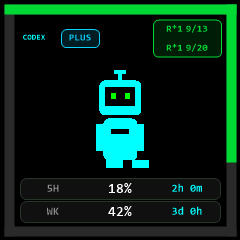
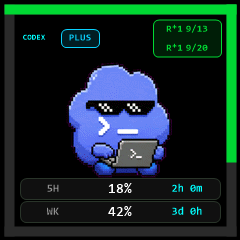
docs: show selected pets and group quota screenshots

Changed region(s): [[0.2625, 0.2625, 0.7292, 0.7583]]

diff --git a/tools/doc-capture/DocCapture.cs b/tools/doc-capture/DocCapture.cs
@@ -7,7 +7,7 @@ internal static class DocCapture
     [STAThread]
     private static void Main(string[] args)
     {
-        if (args.Length != 1) throw new ArgumentException("Supply an output directory.");
+        if (args.Length is not (1 or 3)) throw new ArgumentException("Supply an output directory, optionally followed by Claude and Codex APET paths for approved quota screenshots.");
         AppPaths.BeginPublicSelfTest(); // Must precede any settings/cache/credential access.
         Application.SetHighDpiMode(HighDpiMode.DpiUnaware);
         Application.EnableVisualStyles();
@@ -15,6 +15,11 @@ internal static class DocCapture
         var output = Path.GetFullPath(args[0]); Directory.CreateDirectory(output);
         if (PetAnimationStore.Shared.AllResources().Count != 0)
             throw new InvalidOperationException("Documentation profile contains imported art.");
+        if (args.Length == 3)
+        {
+            PetAnimationStore.Shared.Select("claude", PetAnimation.Decode(File.ReadAllBytes(args[1])));
+            PetAnimationStore.Shared.Select("codex", PetAnimation.Decode(File.ReadAllBytes(args[2])));
+        }
         var now = new DateTimeOffset(2026, 9, 10, 10, 24, 0, TimeSpan.FromHours(8));
         var quota = new ProviderQuotaSnapshot("claude", "MAX", 34, now.AddHours(2), 61,
             now.AddDays(3), null, [], now, false);
@@ -35,6 +40,16 @@ internal static class DocCapture
                 domestic with { Provider="zhipu", Plan="GLM", PrimaryPercent=null, WeeklyPercent=null, Balance=16.8, Currency="CNY" }),
             SystemMetrics: new(31.4,72.8,238900,4821100,now,Enumerable.Range(0,224).Select(i=>new NetworkSample((long)(180000+140000*Math.Sin(i/12.0)),(long)(3000000+2400000*Math.Sin(i/23.0)))).ToArray()),
             Music: new("桌面之光 · 示例曲目", "AI-bot 演示", "示例专辑", true, 95, 260, now));
+        if (args.Length == 3)
+        {
+            foreach (var mode in new[] { "claude", "codex" })
+            {
+                using var image = MirrorForm.RenderSnapshot(status, mode);
+                image.Save(Path.Combine(output, mode+".png"), ImageFormat.Png);
+            }
+            Console.WriteLine("DOC_QUOTA_CAPTURE_OK selected pets; synthetic values; isolated profile; no device access");
+            return;
+        }
         foreach (var mode in DisplayModes.Pages.Select(x=>x.Mode).Concat(new[]{"domestic","screensaver","activity"}).Distinct())
         {
             using var image = MirrorForm.RenderSnapshot(status, mode);

diff --git a/README.en.md b/README.en.md
@@ -91,22 +91,22 @@ repository. See [data sources and privacy](docs/DATA_SOURCES.md) and [asset impo
 
 **First time here?** [Windows installation (Chinese)](docs/WINDOWS_INSTALLER.md) · [Mac test build](docs/MAC_PACKAGE.md) · [Windows flashing (Chinese)](docs/FLASH.zh.md) · [Mac flashing (Chinese)](docs/FLASH_MAC.zh.md) · [Full feature and interface guide (Chinese)](docs/FEATURES.zh.md)
 
-BYTE SPROUT works out of the box; pet imports are optional. These are actual Windows mirror renders with fictional data. Quota screenshots use the built-in default pet, not the user’s current local selection; they are not photographs of a device.
+BYTE SPROUT works out of the box; pet imports are optional. These are actual Windows mirror renders with fictional data. Codex and Claude screenshots show the maintainer’s currently selected pets with sample values; they are not photographs of a device.
 
 <table>
 <tr>
-<td align="center"><img src="docs/assets/screens/codex.png" width="240" alt="Codex quota sample with the built-in default pet"><br><strong>Codex quota</strong></td>
+<td align="center"><img src="docs/assets/screens/codex.png" width="240" alt="Codex quota sample with the currently selected pet"><br><strong>Codex quota</strong></td>
+<td align="center"><img src="docs/assets/screens/claude.png" width="240" alt="Claude quota sample with the currently selected pet"><br><strong>Claude quota</strong></td>
+<td align="center"><img src="docs/assets/screens/dual.png" width="240" alt="Dual quota sample"><br><strong>Dual quotas</strong></td>
+</tr>
+<tr>
+<td align="center"><img src="docs/assets/screens/domestic_kimi.png" width="240" alt="Kimi domestic model quota sample"><br><strong>Domestic model quota (Kimi)</strong></td>
 <td align="center"><img src="docs/assets/screens/weather.png" width="240" alt="Weather sample"><br><strong>Weather &amp; clock</strong></td>
 <td align="center"><img src="docs/assets/screens/system.png" width="240" alt="System monitor sample"><br><strong>System monitor</strong></td>
 </tr>
 <tr>
-<td align="center"><img src="docs/assets/screens/dual.png" width="240" alt="Dual quota sample"><br><strong>Dual quotas</strong></td>
 <td align="center"><img src="docs/assets/screens/music.png" width="240" alt="Music sample"><br><strong>Music playback</strong></td>
 <td align="center"><img src="docs/assets/screens/stocks.png" width="240" alt="Stock quote sample"><br><strong>Stocks</strong></td>
-</tr>
-<tr>
-<td align="center"><img src="docs/assets/screens/claude.png" width="240" alt="Claude quota sample"><br><strong>Claude quota</strong></td>
-<td align="center"><img src="docs/assets/screens/domestic_kimi.png" width="240" alt="Kimi domestic model quota sample"><br><strong>Domestic model quota (Kimi)</strong></td>
 <td align="center"><img src="docs/assets/screens/screensaver.png" width="240" alt="Screensaver clock sample"><br><strong>Screensaver clock</strong></td>
 </tr>
 </table>

diff --git a/README.md b/README.md
@@ -88,22 +88,22 @@ flowchart LR
 
 **第一次使用？** [下载哪个包](docs/DOWNLOAD.zh.md) · [Windows 安装图解](docs/WINDOWS_INSTALLER.md) · [Mac 测试版安装](docs/MAC_PACKAGE.md) · [Windows 刷机图解](docs/FLASH.zh.md) · [Mac 刷机指南](docs/FLASH_MAC.zh.md) · [全部功能与界面图鉴](docs/FEATURES.zh.md)
 
-默认自带 BYTE SPROUT，无需导入桌宠。下面是实际 Windows 镜像渲染，数据为虚构样例；额度图使用内置默认萌宠，不读取用户当前选择的本地萌宠，也不是实体屏照片。
+默认自带 BYTE SPROUT，无需导入桌宠。下面是实际 Windows 镜像渲染，数据为虚构样例；Codex 与 Claude 图使用维护者当前选用的萌宠，其余数值仍为示例；不是实体屏照片。
 
 <table>
 <tr>
-<td align="center"><img src="docs/assets/screens/codex.png" width="240" alt="Codex 额度示例，使用内置默认萌宠"><br><strong>Codex 额度</strong></td>
+<td align="center"><img src="docs/assets/screens/codex.png" width="240" alt="Codex 额度示例，使用当前选用的萌宠"><br><strong>Codex 额度</strong></td>
+<td align="center"><img src="docs/assets/screens/claude.png" width="240" alt="Claude 额度示例，使用当前选用的萌宠"><br><strong>Claude 额度</strong></td>
+<td align="center"><img src="docs/assets/screens/dual.png" width="240" alt="双额度示例"><br><strong>双额度总览</strong></td>
+</tr>
+<tr>
+<td align="center"><img src="docs/assets/screens/domestic_kimi.png" width="240" alt="国产模型 Kimi 额度示例"><br><strong>国产模型额度（Kimi）</strong></td>
 <td align="center"><img src="docs/assets/screens/weather.png" width="240" alt="天气时钟示例"><br><strong>天气时钟</strong></td>
 <td align="center"><img src="docs/assets/screens/system.png" width="240" alt="系统监控示例"><br><strong>系统监控</strong></td>
 </tr>
 <tr>
-<td align="center"><img src="docs/assets/screens/dual.png" width="240" alt="双额度示例"><br><strong>双额度总览</strong></td>
 <td align="center"><img src="docs/assets/screens/music.png" width="240" alt="音乐播放示例"><br><strong>音乐播放</strong></td>
 <td align="center"><img src="docs/assets/screens/stocks.png" width="240" alt="股票行情示例"><br><strong>股票行情</strong></td>
-</tr>
-<tr>
-<td align="center"><img src="docs/assets/screens/claude.png" width="240" alt="Claude 额度示例"><br><strong>Claude 额度</strong></td>
-<td align="center"><img src="docs/assets/screens/domestic_kimi.png" width="240" alt="国产模型 Kimi 额度示例"><br><strong>国产模型额度（Kimi）</strong></td>
 <td align="center"><img src="docs/assets/screens/screensaver.png" width="240" alt="屏保时钟示例"><br><strong>屏保时钟</strong></td>
 </tr>
 </table>

diff --git a/docs/SCREENSHOTS.md b/docs/SCREENSHOTS.md
@@ -10,7 +10,7 @@
 
 图中日期、城市、歌曲、股票报价、额度和系统指标均为程序内固定的虚构样例。
 配置/图库/趋势窗口使用独立空配置；授权窗口禁用浏览器初始化，右侧未加载任何厂商网页。
-不包含厂商 logo、第三方桌宠、真实用户名、Cookie、API Key、对话或维护者运行目录内容。
+默认捕获不包含厂商 logo、第三方桌宠、真实用户名、Cookie、API Key、对话或维护者运行目录内容。2026-09-16 按维护者明确要求替换的 Codex/Claude 两张图例外：仅在隔离配置中读取其当前选用的萌宠，数值仍为虚构样例；原始动画缓存不进入仓库或发布包。
 界面中出现的字体由 Windows 绘制，仓库不分发字体文件。
 
 ## 如何复现
@@ -53,3 +53,11 @@ Public PNGs require an individually reviewed filename and matching SHA-256.
 安装、刷写、下载选择、串口识别和成功提示五张 SVG 为本项目独立绘制的操作示意，已检查文字排版；不是安装器截图或刷机实测记录。相应 SHA-256 已更新到 `licenses/materials.json`。既有真实离线 PNG 未改动。
 
 v0.1.3 新增 `setup.svg` 联网安装步骤示意，并明确 `install.svg` 仅用于 ZIP 手动安装。示意图不代表安装器实测截图。
+
+## 当前萌宠额度图 / Selected-pet quota captures
+
+2026-09-16，`codex.png` 与 `claude.png` 按维护者要求使用其当前选择的萌宠重新渲染。驻留程序只读诊断确认两个角色均已加载；捕获工具读取 Codex 的角色选择及 Claude 的本地默认动画，不修改驻留程序配置。两张图只用于展示应用界面，不将角色图案声明为本项目原创或 MIT 授权，不分发 APET 或源素材。
+
+可选捕获入口：`dotnet run --project tools/doc-capture/DocCapture.csproj -c Release -- <output> <claude.apet> <codex.apet>`。此模式只生成两张额度图；调用者须明确选择获准展示的素材路径。默认无素材参数的捕获仍使用内置桌宠。
+
+On 2026-09-16, the maintainer requested Codex/Claude quota screenshots with their currently selected pets. This explicit opt-in mode reads only the two supplied APET files into an isolated profile and renders synthetic quota values. The original animations are not distributed; depicted characters are not claimed as original AI-bot artwork or MIT-licensed assets. Default capture still uses built-in pets.

diff --git a/docs/ASSET_POLICY.md b/docs/ASSET_POLICY.md
@@ -8,7 +8,7 @@ support in its private pet cache. Resources 12/13 feed the mirror and device;
 no logo pixels or source headers are included in the repository/release. This
 import does not confer a redistribution license. macOS remains unbuilt/unverified.
 
-AI-bot distributes only its procedural `BYTE SPROUT` pet. No legacy sprite, vendor logo, third-party screenshot, or third-party character is bundled. Reviewed offline captures of AI-bot's own UI are documented in [SCREENSHOTS.md](SCREENSHOTS.md).
+AI-bot distributes only its procedural `BYTE SPROUT` pet. No legacy sprite files, vendor logos, or third-party animation resources are bundled. Two maintainer-requested documentation screenshots depict their selected pets; this does not license or bundle those characters as app assets. Reviewed offline captures of AI-bot's own UI are documented in [SCREENSHOTS.md](SCREENSHOTS.md).
 
 The Windows and macOS bridges can send a user-selected PNG, JPEG, BMP, or animated GIF as a private runtime pet. GIFs are sampled into at most eight frames with aggregated per-frame durations; inputs above 1000 frames are rejected. Import is accepted only when the image directory also contains `LICENSE`, `LICENSE.txt`, or `<image-name>.license.txt`, limited to 64 KiB. This is a provenance gate rather than a legal classifier: AI-bot verifies that a notice exists but does not claim that arbitrary notice text grants a particular right.
 

diff --git a/docs/FEATURES.zh.md b/docs/FEATURES.zh.md
@@ -49,8 +49,8 @@
 ## 2. Claude、Codex 与双额度
 
 <p>
-<img src="assets/screens/claude.png" width="240" alt="Claude 额度页，虚构数据与默认桌宠">
-<img src="assets/screens/codex.png" width="240" alt="Codex 额度页，虚构数据与默认桌宠">
+<img src="assets/screens/claude.png" width="240" alt="Claude 额度页，虚构数据与维护者选用的桌宠">
+<img src="assets/screens/codex.png" width="240" alt="Codex 额度页，虚构数据与维护者选用的桌宠">
 <img src="assets/screens/dual.png" width="240" alt="双额度页，虚构数据">
 </p>
 
